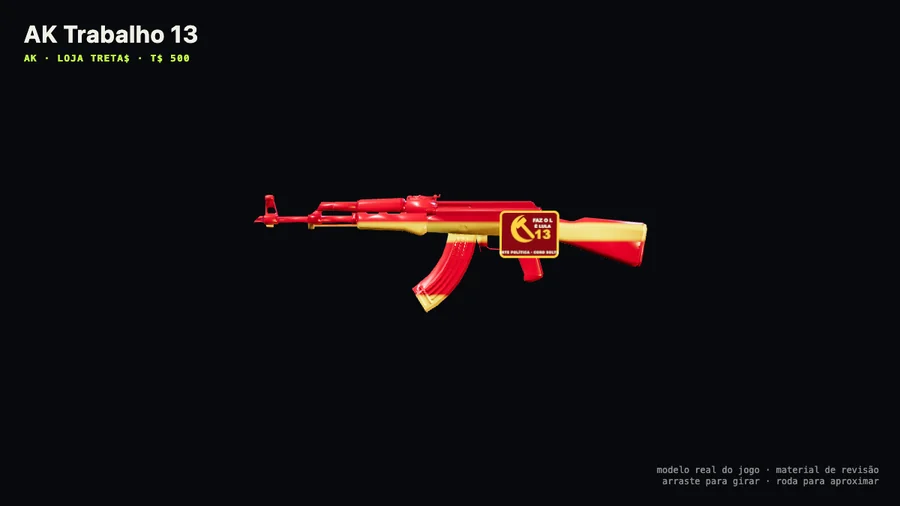
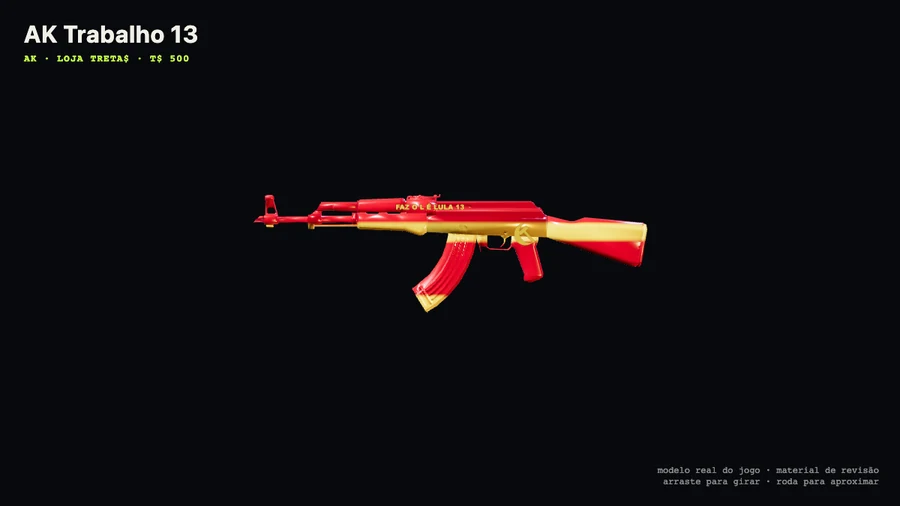
fix: fit political marks to weapon geometry
Agent: GLM
Commit-grande: runtime, arte politica, previews e gate formam uma correcao visual atomica
(cherry picked from commit b357a43a18ec0bd39607948513b449c90c319ee9)

diff --git a/public/js/weapon-skins.js b/public/js/weapon-skins.js
@@ -153,20 +153,38 @@ const MATERIAL_PROFILE = Object.freeze({
   silver: Object.freeze({ roughness: 0.16, metalness: 0.98, envMapIntensity: 1.72 }),
   default: Object.freeze({ roughness: 0.5, metalness: 0.48, envMapIntensity: 1.15 }),
 });
-const MARK_LAYOUT = Object.freeze({
-  ak: Object.freeze({ x: 0.041, y: 0.052, z: -0.08, clubHeight: 0.09, graphicHeight: 0.12 }),
-  pistol: Object.freeze({ x: 0.096, y: 0.085, z: 0.05, clubHeight: 0.16, graphicHeight: 0.20 }),
+const CLUB_MARK_LAYOUT = Object.freeze({
+  ak: Object.freeze({ x: 0.041, y: 0.052, z: -0.08, height: 0.09 }),
+  pistol: Object.freeze({ x: 0.096, y: 0.085, z: 0.05, height: 0.16 }),
+});
+const POLITICAL_LAYOUT = Object.freeze({
+  ak: Object.freeze({
+    symbol: Object.freeze({ y: 0.047, z: -0.075, height: 0.085 }),
+    slogan: Object.freeze({ y: 0.120, z: 0.170, height: 0.035 }),
+  }),
+  pistol: Object.freeze({
+    symbol: Object.freeze({ y: -0.020, z: -0.015, height: 0.082 }),
+    slogan: Object.freeze({ y: 0.240, z: 0.035, height: 0.030 }),
+  }),
+});
+const SLOGAN_STYLE = Object.freeze({
+  'trabalho-13': Object.freeze({ fill: '#ffd23f', stroke: '#69030d' }),
+  'estrela-vermelha': Object.freeze({ fill: '#a60920', stroke: '#fff4d5' }),
+  'estrela-verde': Object.freeze({ fill: '#fff1bd', stroke: '#075c32' }),
+  'brasil-22': Object.freeze({ fill: '#ffe13b', stroke: '#082c70' }),
 });
 
 const markTextures = new Map();
 const markLoads = new Map();
+const sloganTextures = new Map();
+const fittedSurfaceCache = new Map();
 
 export function preloadWeaponSkinCandidate(skinId) {
   const asset = WEAPON_SKINS[skinId]?.markAsset;
   if (!asset) return Promise.resolve(null);
   if (!markLoads.has(skinId)) {
     markLoads.set(skinId, new THREE.TextureLoader().loadAsync(asset).then((texture) => {
-      texture.name = `${skinId}__${WEAPON_SKINS[skinId]?.officialMarksIncluded ? 'official_mark_permission_needed' : 'project_mark'}`;
+      texture.name = `${skinId}__${WEAPON_SKINS[skinId]?.officialMarksIncluded ? 'official_mark_permission_needed' : 'project_symbol_inlay'}`;
       texture.colorSpace = THREE.SRGBColorSpace;
       texture.anisotropy = 4;
       markTextures.set(skinId, texture);
@@ -176,14 +194,136 @@ export function preloadWeaponSkinCandidate(skinId) {
   return markLoads.get(skinId);
 }
 
-function attachSkinMark(model, weaponId, skinId) {
+function sloganTexture(skinId) {
+  const definition = WEAPON_SKINS[skinId];
+  if (!definition?.slogan || typeof document === 'undefined') return null;
+  const cacheKey = `${definition.theme}:${definition.slogan}`;
+  if (sloganTextures.has(cacheKey)) return sloganTextures.get(cacheKey);
+  const canvas = document.createElement('canvas');
+  canvas.width = 2048;
+  canvas.height = 256;
+  const context = canvas.getContext('2d');
+  const style = SLOGAN_STYLE[definition.theme] || SLOGAN_STYLE['trabalho-13'];
+  let fontSize = 124;
+  context.font = `900 ${fontSize}px "Arial Black", Arial, sans-serif`;
+  while (context.measureText(definition.slogan).width > 1900 && fontSize > 68) {
+    fontSize -= 4;
+    context.font = `900 ${fontSize}px "Arial Black", Arial, sans-serif`;
+  }
+  context.textAlign = 'center';
+  context.textBaseline = 'middle';
+  context.lineJoin = 'round';
+  context.lineWidth = 12;
+  context.strokeStyle = style.stroke;
+  context.fillStyle = style.fill;
+  context.strokeText(definition.slogan, 1024, 132);
+  context.fillText(definition.slogan, 1024, 132);
+  const texture = new THREE.CanvasTexture(canvas);
+  texture.name = `${definition.theme}__barrel_slogan`;
+  texture.colorSpace = THREE.SRGBColorSpace;
+  texture.anisotropy = 4;
+  sloganTextures.set(cacheKey, texture);
+  return texture;
+}
+
+function fittedSideSurfaces(model, weaponId, placements) {
+  const cacheKey = `${weaponId}:${placements.map(({ y, z, width, height }) => `${y},${z},${width},${height}`).join('|')}`;
+  if (fittedSurfaceCache.has(cacheKey)) return fittedSurfaceCache.get(cacheKey);
+  model.updateMatrixWorld(true);
+  const inverseRoot = new THREE.Matrix4().copy(model.matrixWorld).invert();
+  const probes = placements.map(({ y, z, width, height }) => ({
+    y, z, halfW: width * 0.56, halfH: height * 0.72, min: Infinity, max: -Infinity,
+  }));
+  let overallMin = Infinity;
+  let overallMax = -Infinity;
+  const point = new THREE.Vector3();
+  const matrix = new THREE.Matrix4();
+  model.traverse((object) => {
+    const positions = object.isMesh && object.geometry?.attributes?.position;
+    if (!positions || object.name.startsWith('skin-') || object.name.startsWith('club-mark-')) return;
+    matrix.multiplyMatrices(inverseRoot, object.matrixWorld);
+    const step = Math.max(1, Math.ceil(positions.count / 24000));
+    for (let index = 0; index < positions.count; index += step) {
+      point.fromBufferAttribute(positions, index).applyMatrix4(matrix);
+      overallMin = Math.min(overallMin, point.x);
+      overallMax = Math.max(overallMax, point.x);
+      for (const probe of probes) {
+        if (Math.abs(point.y - probe.y) > probe.halfH || Math.abs(point.z - probe.z) > probe.halfW) continue;
+        probe.min = Math.min(probe.min, point.x);
+        probe.max = Math.max(probe.max, point.x);
+      }
+    }
+  });
+  const lift = 0.0015 / Math.max(0.001, model.scale.x || 1);
+  const surfaces = probes.map((probe) => Object.freeze({
+    right: (Number.isFinite(probe.max) ? probe.max : overallMax) + lift,
+    left: (Number.isFinite(probe.min) ? probe.min : overallMin) - lift,
+  }));
+  fittedSurfaceCache.set(cacheKey, surfaces);
+  return surfaces;
+}
+function paintedMaterial(texture, skinId, role) {
+  const material = new THREE.MeshStandardMaterial({
+    map: texture,
+    transparent: true,
+    alphaTest: 0.12,
+    depthWrite: false,
+    polygonOffset: true,
+    polygonOffsetFactor: -1,
+    roughness: role === 'symbol' ? 0.30 : 0.42,
+    metalness: role === 'symbol' ? 0.58 : 0.38,
+    envMapIntensity: 1.15,
+    side: THREE.FrontSide,
+  });
+  material.name = `${skinId}__${role}_paint`;
+  return material;
+}
+
+function addFittedPair(model, skinId, role, texture, placement, surfaces, aspect) {
+  const width = placement.height * aspect;
+  const geometry = new THREE.PlaneGeometry(width, placement.height);
+  const material = paintedMaterial(texture, skinId, role);
+  for (const [side, x, rotation] of [
+    ['right', surfaces.right, Math.PI / 2],
+    ['left', surfaces.left, -Math.PI / 2],
+  ]) {
+    const marking = new THREE.Mesh(geometry, material);
+    marking.name = `skin-${role}-${skinId}-${side}`;
+    marking.position.set(x, placement.y, placement.z);
+    marking.rotation.y = rotation;
+    marking.renderOrder = 3;
+    marking.userData.weaponSkin = skinId;
+    marking.userData.markingRole = role;
+    marking.userData.fittedToMesh = true;
+    model.add(marking);
+  }
+}
+
+function attachPoliticalMarkings(model, weaponId, skinId) {
+  const symbol = markTextures.get(skinId);
+  const definition = WEAPON_SKINS[skinId];
+  const layout = POLITICAL_LAYOUT[weaponId];
+  if (!symbol || !definition || !layout) return;
+  const symbolAspect = (symbol.image?.width || 1) / (symbol.image?.height || 1);
+  const slogan = sloganTexture(skinId);
+  const items = [
+    { role: 'symbol', texture: symbol, placement: layout.symbol, aspect: symbolAspect },
+    ...(slogan ? [{ role: 'slogan', texture: slogan, placement: layout.slogan, aspect: 8 }] : []),
+  ];
+  const surfaces = fittedSideSurfaces(model, weaponId, items.map(({ placement, aspect }) => ({
+    ...placement,
+    width: placement.height * aspect,
+  })));
+  items.forEach((item, index) => addFittedPair(model, skinId, item.role, item.texture, item.placement, surfaces[index], item.aspect));
+}
+
+function attachOfficialMark(model, weaponId, skinId) {
   const texture = markTextures.get(skinId);
   const definition = WEAPON_SKINS[skinId];
-  const layout = MARK_LAYOUT[weaponId];
+  const layout = CLUB_MARK_LAYOUT[weaponId];
   if (!texture || !definition || !layout) return;
   const aspect = (texture.image?.width || 1) / (texture.image?.height || 1);
-  const height = definition.officialMarksIncluded ? layout.clubHeight : layout.graphicHeight;
-  const geometry = new THREE.PlaneGeometry(height * aspect, height);
+  const geometry = new THREE.PlaneGeometry(layout.height * aspect, layout.height);
   const material = new THREE.MeshBasicMaterial({
     map: texture,
     transparent: true,
@@ -194,22 +334,24 @@ function attachSkinMark(model, weaponId, skinId) {
     side: THREE.FrontSide,
     toneMapped: false,
   });
-  const prefix = definition.officialMarksIncluded ? 'club-mark' : 'skin-mark';
-  const right = new THREE.Mesh(geometry, material);
-  right.name = `${prefix}-${skinId}-right`;
-  right.position.set(layout.x, layout.y, layout.z);
-  right.rotation.y = Math.PI / 2;
-  right.renderOrder = 4;
-  right.userData.officialMark = !!definition.officialMarksIncluded;
-  right.userData.rightsStatus = definition.rightsStatus || 'original-safe';
-  const left = new THREE.Mesh(geometry, material);
-  left.name = `${prefix}-${skinId}-left`;
-  left.position.set(-layout.x, layout.y, layout.z);
-  left.rotation.y = -Math.PI / 2;
-  left.renderOrder = 4;
-  left.userData.officialMark = !!definition.officialMarksIncluded;
-  left.userData.rightsStatus = definition.rightsStatus || 'original-safe';
-  model.add(right, left);
+  for (const [side, x, rotation] of [
+    ['right', layout.x, Math.PI / 2],
+    ['left', -layout.x, -Math.PI / 2],
+  ]) {
+    const marking = new THREE.Mesh(geometry, material);
+    marking.name = `club-mark-${skinId}-${side}`;
+    marking.position.set(x, layout.y, layout.z);
+    marking.rotation.y = rotation;
+    marking.renderOrder = 4;
+    marking.userData.officialMark = true;
+    marking.userData.rightsStatus = definition.rightsStatus || 'permission-needed';
+    model.add(marking);
+  }
+}
+
+function attachSkinMark(model, weaponId, skinId) {
+  if (WEAPON_SKINS[skinId]?.officialMarksIncluded) attachOfficialMark(model, weaponId, skinId);
+  else attachPoliticalMarkings(model, weaponId, skinId);
 }
 
 function cloneMaterial(material, skinId) {

diff --git a/public/js/data/weapon-skin-definitions.js b/public/js/data/weapon-skin-definitions.js
@@ -15,7 +15,8 @@ const storeSkin = ({
   officialMarksIncluded: false,
   theme,
   slogan,
-  ...(markAsset ? { markPlacement: 'receiver', markAsset } : {}),
+  ...(markAsset ? { markPlacement: 'receiver-inlay', markAsset } : {}),
+  ...(slogan ? { sloganPlacement: 'barrel-horizontal' } : {}),
   ...(metalFinish ? { metalFinish } : {}),
   storeEnabled: true,
   storePrice: price,

diff --git a/CHANGELOG.md b/CHANGELOG.md
@@ -30,6 +30,7 @@
 - A loja TRETA$ ganha doze skins de arma para AK e pistola: oito políticas por T$ 500, ouro por T$ 900 e prata por T$ 500. O armário equipa uma skin por arma, e a tecla `I` mostra a lateral completa durante a partida.
 
 ### Alterado
+- As oito skins políticas deixam de usar uma placa sobreposta: o símbolo agora é uma pintura metálica ajustada à lateral real da malha, e as frases seguem na horizontal sobre o cano ou ferrolho.
 - Nicks de exibição aceitam de 2 a 32 caracteres no cadastro, comunidade, chat, partida, perfil, badge e cartões compartilhados. Killfeed e painel de morte tratam o nome como texto.
 - A contagem agregada de abertura, carga, entrada, partida e sessão envia somente evento, versão e faixas. O fluxo não usa identificador, cookie ou storage e fica desligado em automação e depuração.
 
